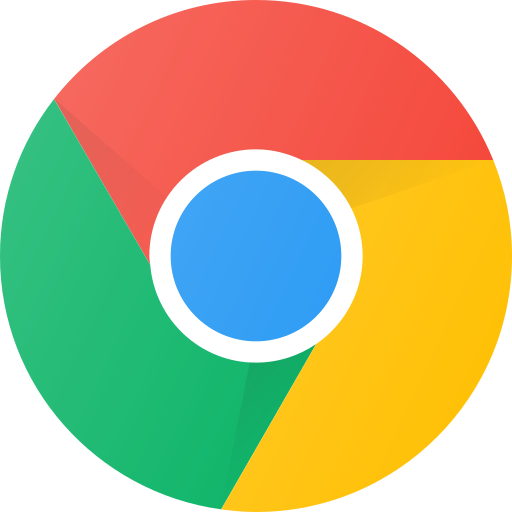
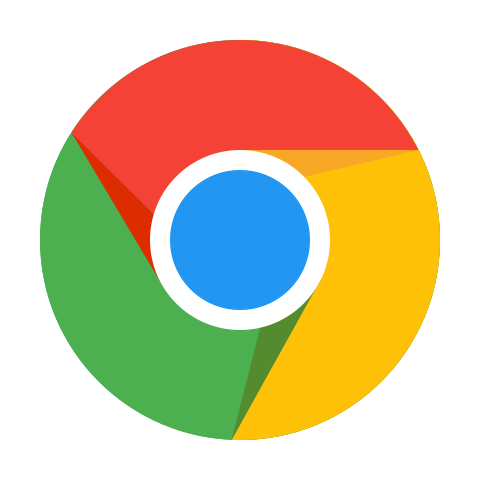
Http Request Setup done

diff --git a/index.html b/index.html
@@ -108,6 +108,9 @@
                         <a href="#" id="icon-game"><img src="./assets/images/game-controller.png" alt="" srcset="" class="h-auto w-full"></a>
                     </li>
                     <li>
+                        <a href="#" id="chromeToggle"><img src="./assets/images/chrome.png" alt="" srcset="" class="h-auto w-full"></a>
+                    </li>
+                    <li>
                         <a href="#" id="appToggle"><img src="./assets/images/app-store.png" alt="" srcset="" class="h-auto w-full"></a>
                     </li>
                 </ul>
@@ -162,44 +165,7 @@
                     <button class="hover:cursor-pointer bg-[rgba(0,0,0,0.5)] border-1 border-black rounded-full w-5 h-5" ><i class="text-red-500 fas fa-times"></i></button>
                 </div>
                 <div id="aboutPopupInfo" class="p-5 overflow-y-scroll">
-                    Lorem ipsum dolor sit amet, consectetur adipiscing elit, sed do eiusmod tempor incididunt
-                    ut labore et dolore magna aliqua. Ut enim ad minim veniam, quis nostrud exercitation ullamco
-                    laboris nisi ut aliquip ex ea commodo consequat. Duis aute irure dolor in reprehenderit in
-                    voluptate velit esse cillum dolore eu fugiat nulla pariatur. Excepteur sint occaecat cupidatat
-                    non proident, sunt in culpa qui officia deserunt mollit anim id est laborum
-                    Lorem ipsum dolor sit amet, consectetur adipiscing elit, sed do eiusmod tempor incididunt
-                    ut labore et dolore magna aliqua. Ut enim ad minim veniam, quis nostrud exercitation ullamco
-                    laboris nisi ut aliquip ex ea commodo consequat. Duis aute irure dolor in reprehenderit in
-                    voluptate velit esse cillum dolore eu fugiat nulla pariatur. Excepteur sint occaecat cupidatat
-                    non proident, sunt in culpa qui officia deserunt mollit anim id est laborum
-                    proident, sunt in culpa qui officia deserunt mollit anim id est laborum
-                    Lorem ipsum dolor sit amet, consectetur adipiscing elit, sed do eiusmod tempor incididunt
-                    ut labore et dolore magna aliqua. Ut enim ad minim veniam, quis nostrud exercitation ullamco
-                    laboris nisi ut aliquip ex ea
-                    proident, sunt in culpa qui officia deserunt mollit anim id est laborum
-                    Lorem ipsum dolor sit amet, consectetur adipiscing elit, sed do eiusmod tempor incididunt
-                    ut labore et dolore magna aliqua. Ut enim ad minim veniam, quis nostrud exercitation ullamco
-                    laboris nisi ut aliquip ex ea
-                    proident, sunt in culpa qui officia deserunt mollit anim id est laborum
-                    Lorem ipsum dolor sit amet, consectetur adipiscing elit, sed do eiusmod tempor incididunt
-                    ut labore et dolore magna aliqua. Ut enim ad minim veniam, quis nostrud exercitation ullamco
-                    laboris nisi ut aliquip ex eaproident, sunt in culpa qui officia deserunt mollit anim id est laborum
-                    Lorem ipsum dolor sit amet, consectetur adipiscing elit, sed do eiusmod tempor incididunt
-                    ut labore et dolore magna aliqua. Ut enim ad minim veniam, quis nostrud exercitation ullamco
-                    laboris nisi ut aliquip ex ea
-                    proident, sunt in culpa qui officia deserunt mollit anim id est laborum
-                    Lorem ipsum dolor sit amet, consectetur adipiscing elit, sed do eiusmod tempor incididunt
-                    ut labore et dolore magna aliqua. Ut enim ad minim veniam, quis nostrud exercitation ullamco
-                    laboris nisi ut aliquip ex eaproident, sunt in culpa qui officia deserunt mollit anim id est laborum
-                    Lorem ipsum dolor sit amet, consectetur adipiscing elit, sed do eiusmod tempor incididunt
-                    ut labore et dolore magna aliqua. Ut enim ad minim veniam, quis nostrud exercitation ullamco
-                    laboris nisi ut aliquip ex eaproident, sunt in culpa qui officia deserunt mollit anim id est laborum
-                    Lorem ipsum dolor sit amet, consectetur adipiscing elit, sed do eiusmod tempor incididunt
-                    ut labore et dolore magna aliqua. Ut enim ad minim veniam, quis nostrud exercitation ullamco
-                    laboris nisi ut aliquip ex eaproident, sunt in culpa qui officia deserunt mollit anim id est laborum
-                    Lorem ipsum dolor sit amet, consectetur adipiscing elit, sed do eiusmod tempor incididunt
-                    ut labore et dolore magna aliqua. Ut enim ad minim veniam, quis nostrud exercitation ullamco
-                    laboris nisi ut aliquip ex ea
+                    <!--Inject Data here-->
                 </div>
             </div>
             <!--/About This Ubuntu App-->

diff --git a/assets/css/app.css b/assets/css/app.css
@@ -587,20 +587,8 @@
   .end-2 {
     inset-inline-end: calc(var(--spacing) * 2);
   }
-  .-top-1 {
-    top: calc(var(--spacing) * -1);
-  }
-  .-top-1\/2 {
-    top: calc(calc(1/2 * 100%) * -1);
-  }
   .-top-4 {
     top: calc(var(--spacing) * -4);
-  }
-  .-top-5 {
-    top: calc(var(--spacing) * -5);
-  }
-  .-top-12 {
-    top: calc(var(--spacing) * -12);
   }
   .top-0 {
     top: calc(var(--spacing) * 0);
@@ -608,23 +596,14 @@
   .top-1\/2 {
     top: calc(1/2 * 100%);
   }
-  .top-1\/3 {
-    top: calc(1/3 * 100%);
-  }
   .top-4 {
     top: calc(var(--spacing) * 4);
-  }
-  .top-50 {
-    top: calc(var(--spacing) * 50);
   }
   .top-\[90px\] {
     top: 90px;
   }
   .-right-2 {
     right: calc(var(--spacing) * -2);
-  }
-  .-right-3 {
-    right: calc(var(--spacing) * -3);
   }
   .right-0 {
     right: calc(var(--spacing) * 0);
@@ -788,12 +767,6 @@
   .mr-4 {
     margin-right: calc(var(--spacing) * 4);
   }
-  .mr-6 {
-    margin-right: calc(var(--spacing) * 6);
-  }
-  .mr-10 {
-    margin-right: calc(var(--spacing) * 10);
-  }
   .mb-2 {
     margin-bottom: calc(var(--spacing) * 2);
   }
@@ -901,17 +874,11 @@
   .h-1\/2 {
     height: calc(1/2 * 100%);
   }
-  .h-3 {
-    height: calc(var(--spacing) * 3);
-  }
   .h-3\/4 {
     height: calc(3/4 * 100%);
   }
   .h-5 {
     height: calc(var(--spacing) * 5);
-  }
-  .h-6 {
-    height: calc(var(--spacing) * 6);
   }
   .h-9\/10 {
     height: calc(9/10 * 100%);
@@ -973,17 +940,11 @@
   .w-1\/2 {
     width: calc(1/2 * 100%);
   }
-  .w-3 {
-    width: calc(var(--spacing) * 3);
-  }
   .w-3\/4 {
     width: calc(3/4 * 100%);
   }
   .w-5 {
     width: calc(var(--spacing) * 5);
-  }
-  .w-6 {
-    width: calc(var(--spacing) * 6);
   }
   .w-9\/10 {
     width: calc(9/10 * 100%);
@@ -1820,9 +1781,6 @@
   .border-b-gray-100 {
     border-bottom-color: var(--color-gray-100);
   }
-  .border-b-red-400 {
-    border-bottom-color: var(--color-red-400);
-  }
   .bg-\(--my_variable\) {
     background-color: var(--my_variable);
   }
@@ -2168,9 +2126,6 @@
   .p-6 {
     padding: calc(var(--spacing) * 6);
   }
-  .p-10 {
-    padding: calc(var(--spacing) * 10);
-  }
   .px-1 {
     padding-inline: calc(var(--spacing) * 1);
   }
@@ -2388,17 +2343,8 @@
   .\[color\:red\]\/50\! {
     color: color-mix(in oklab, red 50%, transparent) !important;
   }
-  .text-\[\#77216F\] {
-    color: #77216F;
-  }
-  .text-\[\#f78200\] {
-    color: #f78200;
-  }
   .text-black {
     color: var(--color-black);
-  }
-  .text-gray-300 {
-    color: var(--color-gray-300);
   }
   .text-gray-400 {
     color: var(--color-gray-400);
@@ -2415,17 +2361,8 @@
   .text-gray-900 {
     color: var(--color-gray-900);
   }
-  .text-gray-950 {
-    color: var(--color-gray-950);
-  }
   .text-red-500 {
     color: var(--color-red-500);
-  }
-  .text-red-600 {
-    color: var(--color-red-600);
-  }
-  .text-red-900 {
-    color: var(--color-red-900);
   }
   .text-white {
     color: var(--color-white);
@@ -2771,14 +2708,6 @@
     --tw-duration: 900ms;
     transition-duration: 900ms;
   }
-  .duration-10000 {
-    --tw-duration: 10000ms;
-    transition-duration: 10000ms;
-  }
-  .duration-1100 {
-    --tw-duration: 1100ms;
-    transition-duration: 1100ms;
-  }
   .ease-in {
     --tw-ease: var(--ease-in);
     transition-timing-function: var(--ease-in);
@@ -3091,13 +3020,6 @@
     &:hover {
       @media (hover: hover) {
         background-color: var(--color-blue-700);
-      }
-    }
-  }
-  .hover\:bg-gray-100 {
-    &:hover {
-      @media (hover: hover) {
-        background-color: var(--color-gray-100);
       }
     }
   }

diff --git a/assets/js/components/Popup.js b/assets/js/components/Popup.js
@@ -4,11 +4,30 @@ export class Popup{
         this.aboutPopupClose = document.getElementById('aboutPopupClose');
         this.aboutPopupInfo = document.getElementById('aboutPopupInfo');
     }
+    fetchData(){
+        // Fetch API
+        const xhr = new XMLHttpRequest();
+        xhr.open('GET','https://jsonplaceholder.typicode.com/posts');
+        xhr.responseType = 'json';
+        xhr.onload = function () {
+            const data =  xhr.response;
+            let postHtml = '<ol>';
+            for(const post of data){
+                postHtml += `<li>${post.id} : ${post.title}</li>`;
+            }
+            postHtml += '</ol>';
+            document.getElementById('aboutPopupInfo').innerHTML =  postHtml;
+        }
+        xhr.send();
+    }
     renderPopup(){
         if(localStorage.getItem('userData') !== null) {
+            // Display Popup
+            this.fetchData();
             setTimeout(()=>{
                 this.aboutPopup.classList.remove('hidden');
                 this.aboutPopup.classList.add('flex');
+                localStorage.setItem('popupMsg', JSON.stringify(1));
             },2000)
         }
     }

diff --git a/assets/js/data/ubuntu_application_list.js b/assets/js/data/ubuntu_application_list.js
@@ -442,5 +442,17 @@ export const ubuntuApplicationList = [
     "rating": 4.1,
     "image": "clementine.png",
     "category": "Multimedia"
+  },
+  {
+    "id": 38,
+    "title": "Google Chrome",
+    "company": "Google Inc.",
+    "link": "https://www.google.com/chrome/",
+    "description": "Google Chrome is a fast, secure, and user-friendly web browser developed by Google, offering seamless browsing with powerful extensions and features.",
+    "status": true,
+    "installed": true,
+    "rating": 4.8,
+    "image": "chrome.png",
+    "category": "Productivity"
   }
 ]

diff --git a/assets/js/ubuntu.js b/assets/js/ubuntu.js
@@ -253,7 +253,7 @@ console.log("A");
  // execution will not be blocked
 setTimeout(()=> {
     // This functions works with the help of browser.
-    console.log("B");
+
 }, 2000);
 console.log("C");
 

diff --git a/assets/js/helper/SendHttpRequest.js b/assets/js/helper/SendHttpRequest.js
@@ -1,0 +1,5 @@
+export class SendHttpRequest {
+    static sendRequest(requestData){
+
+    }
+}
